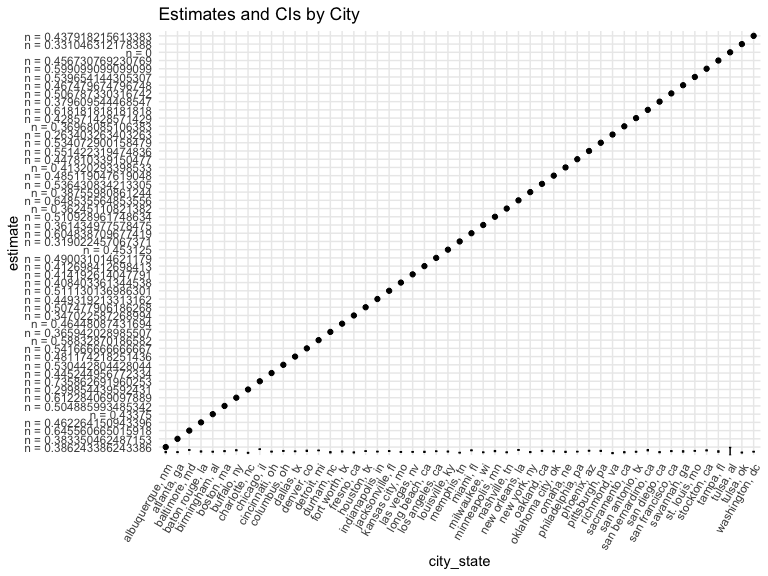
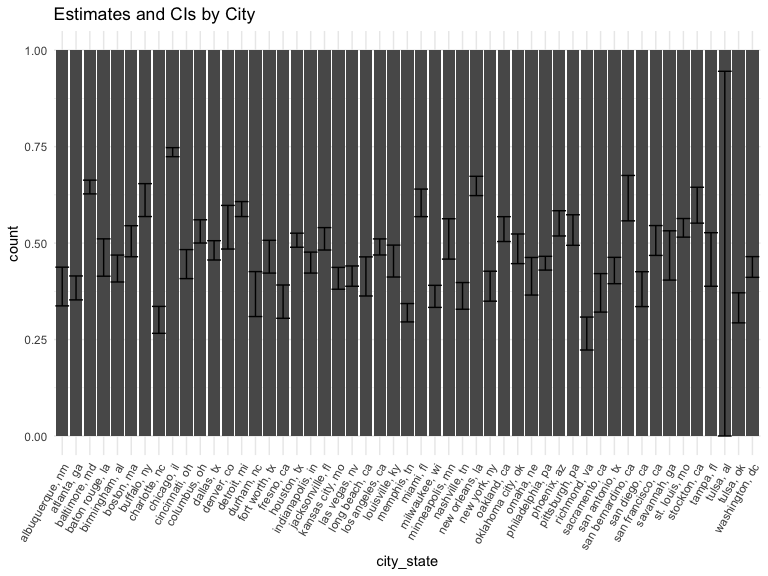
Problem 3 and final edits

diff --git a/p8105_hw5_bes2161.md b/p8105_hw5_bes2161.md
@@ -214,7 +214,7 @@ wp = read_csv("data/homicide-data.csv") %>%
 
 This data frame includes data from the Washington Post on homicides in
 50 large U.S. cities. There are 52,179 rows and 12 columns. It includes
-variables: id; report date; victim first and last names’; victim race,
+variables: id; report date; victim first and last names; victim race,
 age, and sex; city and state; longitude and latitude; and disposition.
 
 # Tidy the data:
@@ -268,11 +268,91 @@ homicides %>%
   mutate(
     estimate = str_c("n = ", estimate),
     estimate = fct_inorder(estimate)) %>% 
-  ggplot(aes(x = city_state, y = estimate)) + 
-  geom_point() +
-  geom_errorbar(aes(ymin = conf.low, ymax = conf.high), width = 0.2) +
+  ggplot(aes(x = city_state)) + 
+  geom_bar() +
+  geom_errorbar(aes(ymin = conf.low, ymax = conf.high), width = 1) +
   labs(title = "Estimates and CIs by City") +
   theme(axis.text.x = element_text(angle = 60, hjust = 1))
 ```
 
 <img src="p8105_hw5_bes2161_files/figure-gfm/unnamed-chunk-8-1.png" width="90%" />
+
+## Problem 3
+
+# Function:
+
+``` r
+sim_t_test = function(m) {
+  
+  sample = rnorm(30, mean = m, sd = 5)
+  
+  t.test(sample) %>% 
+    broom::tidy() %>% 
+    select(estimate, p.value)
+}
+```
+
+# Iterate:
+
+``` r
+sim_results_df =
+  expand_grid(
+    true_mean = 0:6,
+    iter = 1:5000
+  ) %>% 
+  mutate(
+    estimate_df = map(true_mean, sim_t_test)
+  ) %>% 
+  unnest(estimate_df)
+```
+
+# Plot:
+
+``` r
+sim_results_df %>% 
+  mutate(
+     signif = case_when(
+       p.value < .05 ~ "signif",
+       p.value > .05 ~ "not_signif",
+       TRUE ~ ""
+       )) %>%
+  group_by(true_mean, signif) %>% 
+  ggplot(aes(x = true_mean, y = estimate, colour = signif)) + 
+  geom_violin()
+```
+
+<img src="p8105_hw5_bes2161_files/figure-gfm/unnamed-chunk-11-1.png" width="90%" />
+
+This plot shows the fraction of times the p.value is less than .05. We
+can see that power increases as the true mean increases.
+
+# Plot:
+
+``` r
+sim_results_df %>% 
+  group_by(true_mean, estimate) %>% 
+  ggplot(aes(x = true_mean, y = estimate)) + 
+  geom_point()
+```
+
+<img src="p8105_hw5_bes2161_files/figure-gfm/unnamed-chunk-12-1.png" width="90%" />
+
+``` r
+sim_results_df %>% 
+  mutate(
+     signif = case_when(
+       p.value < .05 ~ "signif",
+       p.value > .05 ~ "not_signif",
+       TRUE ~ ""
+       )) %>%
+  filter(signif != "not_signif") %>% 
+  group_by(true_mean, estimate) %>% 
+  ggplot(aes(x = true_mean, y = estimate)) + 
+  geom_point()
+```
+
+<img src="p8105_hw5_bes2161_files/figure-gfm/unnamed-chunk-12-2.png" width="90%" />
+
+No, the two means are not the same. When we have low power, the means
+are really different. This emphasizes the need to be skeptical when
+reporting results.
